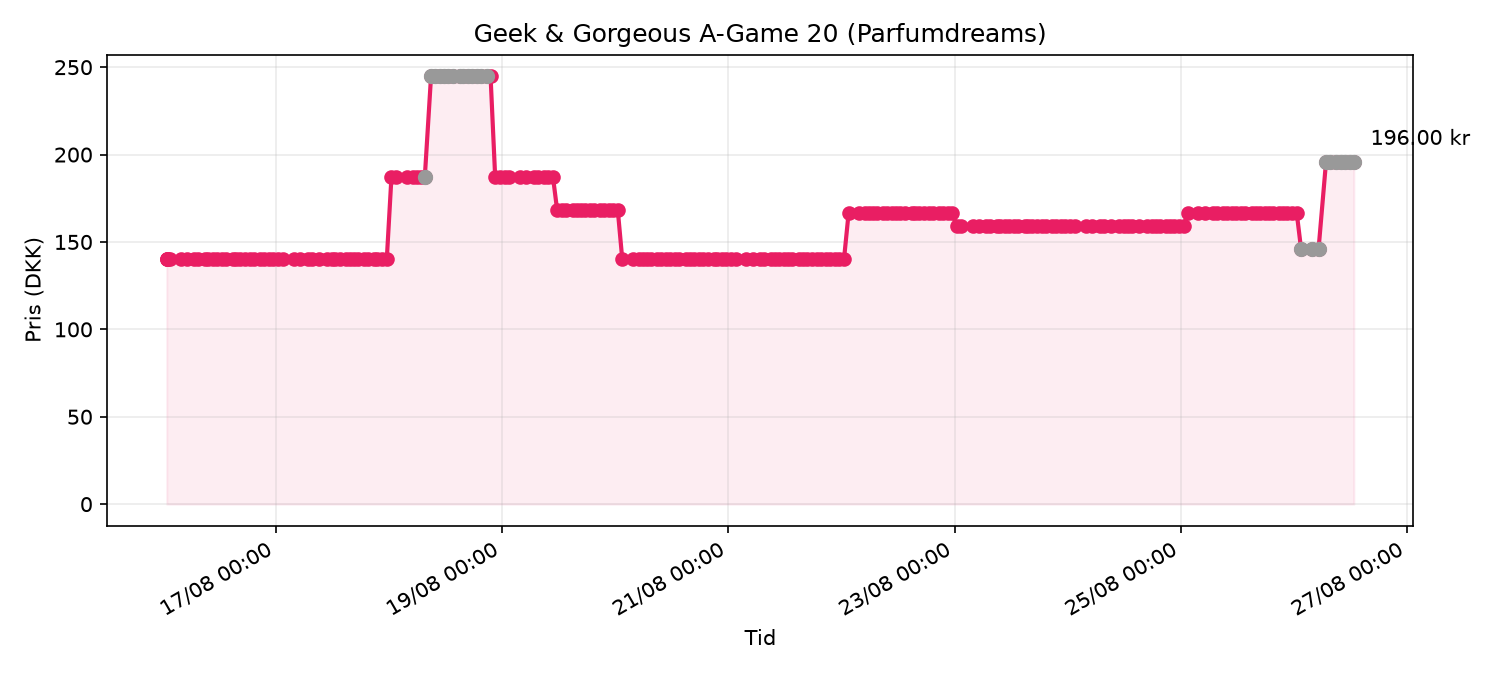
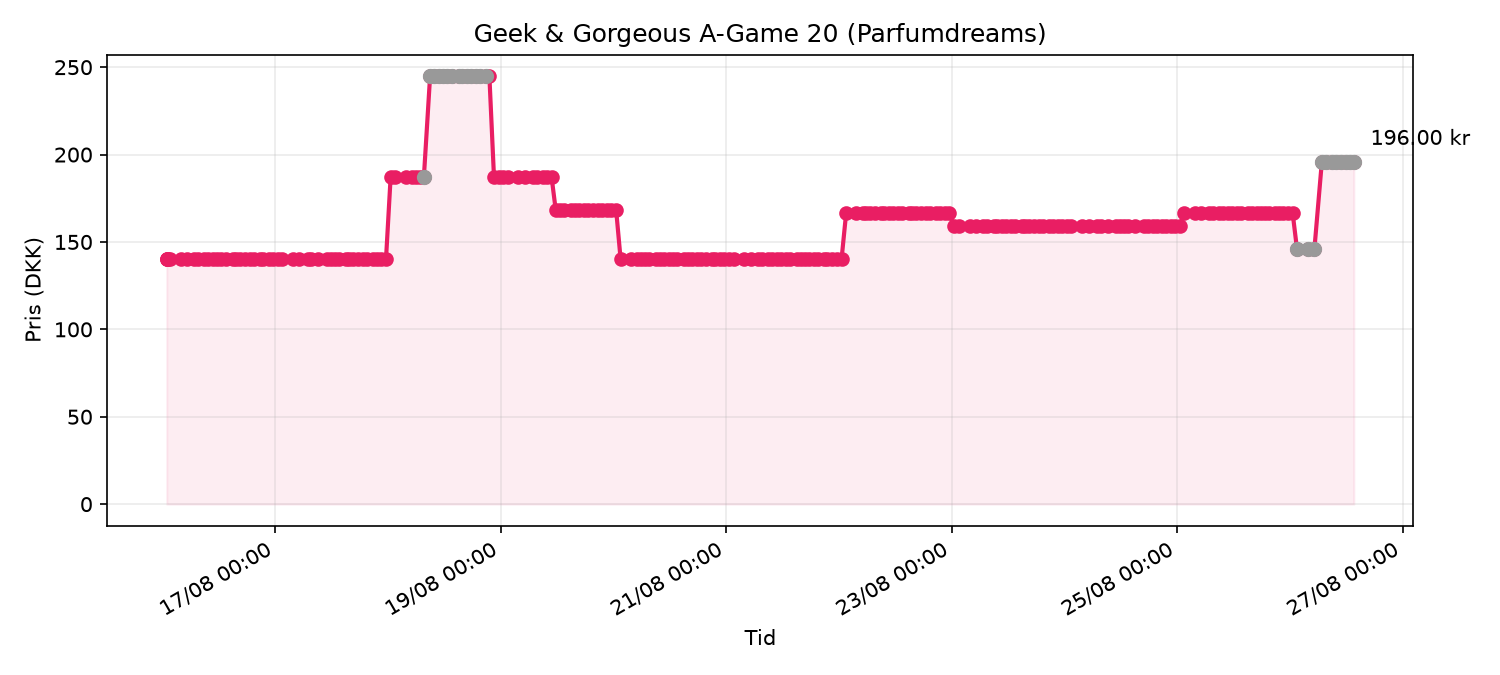
deploy: ee9259838ceaaa23d4c74a955f3979b6517748ae

diff --git a/price_chart.html b/price_chart.html
@@ -13,7 +13,7 @@
 </head>
 <body>
   <h1>Geek & Gorgeous A-Game 20 (Parfumdreams)</h1>
-  <p class="meta">Senest tjekket: 26/08/2026 12:42 · Pris: <strong>196.00 kr</strong> · udsolgt</p>
+  <p class="meta">Senest tjekket: 26/08/2026 13:37 · Pris: <strong>196.00 kr</strong> · udsolgt</p>
   
   <p><a href="https://www.parfumdreams.dk/Geek-Gorgeous/Samlinger/101-aktive-stoffer/A-Game-20-Serum/index_137083.aspx?variation=221879">Åbn produkt på Parfumdreams</a></p>
   <img src="price_chart.png" alt="Prisgraf">
